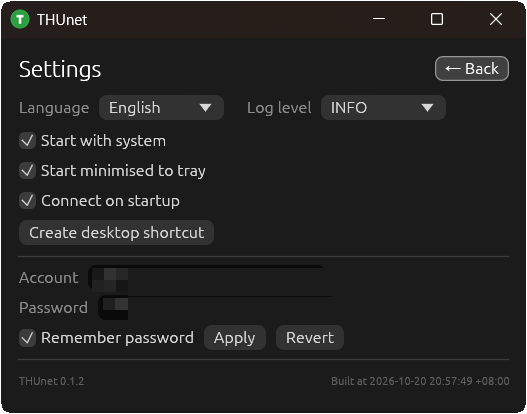
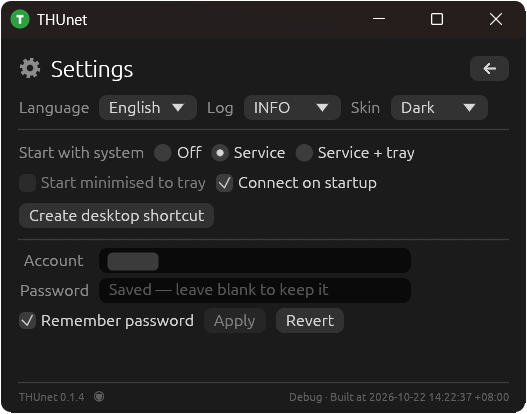
feat: let the window follow the system theme
Settings grows a Skin combo next to Language and Log (Auto / Light / Dark). The choice is stored in config.json as \	heme\ and pushed to the egui context through ThemePreference, so the window repaints in the new skin without a restart; \uto\ keeps following the OS.

The three combos share one row and one width, so the settings page still fits the fixed window in either language.

docs/images: retake all four screenshots and add the light-skin pair; README and README.zh-CN show the two skins side by side at 400 px each.

diff --git a/src/ui.rs b/src/ui.rs
@@ -105,6 +105,16 @@ fn state_color(state: State) -> egui::Color32 {
   egui::Color32::from_rgb(c[0], c[1], c[2])
 }
 
+/// `config.json`'s `theme` setting ("auto" | "light" | "dark"), as egui wants
+/// it. `auto` follows the system preference.
+fn theme_preference(setting: &str) -> egui::ThemePreference {
+  match setting {
+    "light" => egui::ThemePreference::Light,
+    "dark" => egui::ThemePreference::Dark,
+    _ => egui::ThemePreference::System,
+  }
+}
+
 /// How long the service has been up, in the coarsest useful unit.
 fn human_uptime(secs: u64) -> String {
   let days = secs / 86_400;
@@ -418,6 +428,8 @@ pub struct App {
   /// Lowest level rendered in the log pane; older lines are kept and simply
   /// hidden, so raising the threshold again brings them back.
   min_level: Level,
+  /// The theme setting last pushed to the context (`config.json` `theme`).
+  applied_theme: Option<String>,
   autostart: Option<Autostart>,
   autostart_mode: Mode,
   user_edit: String,
@@ -617,6 +629,7 @@ impl App {
       // `ensure_link` pass has to publish the language.
       lang_sent: false,
       min_level,
+      applied_theme: None,
       autostart,
       autostart_mode,
       tray,
@@ -1661,7 +1674,7 @@ impl App {
           // Denser spacing: the settings page has to fit the fixed window.
           ui.spacing_mut().item_spacing.y = 4.0;
 
-          // Language and log level lead the page: they are the two settings
+          // Language, log level and theme lead the page: they are the settings
           // people look for first.
           let mut choice = match self.cfg.lang.as_str() {
             "zh" => 1,
@@ -1670,11 +1683,20 @@ impl App {
           };
           let before_lang = choice;
           let before_level = self.min_level;
-          // Both combos share a row: the settings page has to fit the fixed
-          // window height.
+          let mut theme = match self.cfg.theme.as_str() {
+            "light" => 1,
+            "dark" => 2,
+            _ => 0,
+          };
+          let before_theme = theme;
+          // All three combos share one row, and all three are given the same
+          // width: the labels differ from language to language, but a common
+          // combo width is what keeps the row inside the fixed window width and
+          // the three controls the same size.
           ui.horizontal(|ui| {
             ui.label(t.language);
             egui::ComboBox::from_id_salt("lang")
+              .width(COMBO_WIDTH)
               .selected_text(match choice {
                 1 => t.lang_zh,
                 2 => t.lang_en,
@@ -1685,14 +1707,27 @@ impl App {
                 ui.selectable_value(&mut choice, 1, t.lang_zh);
                 ui.selectable_value(&mut choice, 2, t.lang_en);
               });
-            ui.add_space(10.0);
             ui.label(t.log_level);
             egui::ComboBox::from_id_salt("log-level")
+              .width(COMBO_WIDTH)
               .selected_text(self.min_level.tag())
               .show_ui(ui, |ui| {
                 for level in Level::CHOICES {
                   ui.selectable_value(&mut self.min_level, level, level.tag());
                 }
+              });
+            ui.label(t.theme);
+            egui::ComboBox::from_id_salt("theme")
+              .width(COMBO_WIDTH)
+              .selected_text(match theme {
+                1 => t.theme_light,
+                2 => t.theme_dark,
+                _ => t.theme_auto,
+              })
+              .show_ui(ui, |ui| {
+                ui.selectable_value(&mut theme, 0, t.theme_auto);
+                ui.selectable_value(&mut theme, 1, t.theme_light);
+                ui.selectable_value(&mut theme, 2, t.theme_dark);
               });
           });
           if choice != before_lang {
@@ -1706,6 +1741,16 @@ impl App {
           if self.min_level != before_level {
             self.cfg.log_level = self.min_level.setting().to_string();
             let _ = self.cfg.save();
+          }
+          if theme != before_theme {
+            self.cfg.theme = ["auto", "light", "dark"][theme].to_string();
+            match self.cfg.save() {
+              Ok(()) => {
+                let label = [t.theme_auto, t.theme_light, t.theme_dark][theme];
+                self.set_toast(format!("{}: {label}", t.theme), ToastKind::Info);
+              }
+              Err(e) => self.toast_err(e),
+            }
           }
 
           // A rule under the row that only changes how this window renders, so
@@ -1803,21 +1848,23 @@ impl App {
             match_hint,
           );
           ui.horizontal(|ui| {
-            ui.label(t.account);
+            let label_w = field_label_width(ui, t);
+            field_label(ui, t.account, label_w);
             ui.add_enabled(
               credentials_live,
-              egui::TextEdit::singleline(&mut self.user_edit).desired_width(190.0),
+              egui::TextEdit::singleline(&mut self.user_edit).desired_width(FIELD_WIDTH),
             );
             if stored.username {
               unsaved_marker(ui, t);
             }
           });
           ui.horizontal(|ui| {
-            ui.label(t.password);
+            let label_w = field_label_width(ui, t);
+            field_label(ui, t.password, label_w);
             let keep_hint = core_password && self.pass_edit.is_empty();
             let mut input = egui::TextEdit::singleline(&mut self.pass_edit)
               .password(true)
-              .desired_width(190.0);
+              .desired_width(FIELD_WIDTH);
             if keep_hint {
               // The core holds a password the window cannot show; an empty
               // field means "keep it" rather than "no password".
@@ -2176,6 +2223,54 @@ impl CredentialEdits {
   fn any(self) -> bool {
     self.username || self.password || self.remember
   }
+}
+
+/// Width of the three presentation combos (*Language*, *Log*, *Skin*).
+///
+/// One width for all three: they share a row, and the row has to fit the fixed
+/// window width in every language.
+const COMBO_WIDTH: f32 = 78.0;
+
+/// Width of the *Account* / *Password* input boxes.
+///
+/// Wide enough for the longest placeholder — "Saved — leave blank to keep it" —
+/// at the default font, and for the account a portal user actually types, while
+/// still leaving room on the same row for the *Unsaved* marker.
+const FIELD_WIDTH: f32 = 250.0;
+
+/// Width of the label column in front of those inputs.
+///
+/// Measured from the two labels in the current language instead of fixed:
+/// "Password" is the widest English label, while "账号" and "密码" are two
+/// characters each, and a column sized for English leaves a wide gap in
+/// Chinese. Both rows take the same number, which is what keeps the two inputs
+/// on the same x in every language.
+fn field_label_width(ui: &egui::Ui, t: &Texts) -> f32 {
+  let font = egui::TextStyle::Body.resolve(ui.style());
+  [t.account, t.password]
+    .iter()
+    .map(|text| {
+      ui.fonts_mut(|f| {
+        f.layout_no_wrap((*text).to_owned(), font.clone(), egui::Color32::WHITE)
+          .size()
+          .x
+      })
+    })
+    .fold(0.0_f32, f32::max)
+    .ceil()
+}
+
+/// That label, drawn flush left in the shared column.
+///
+/// A plain `ui.label` would make each row's column as wide as its own text, so
+/// the two inputs would start at different x; `add_sized` reserves the width
+/// but centres the text inside it.
+fn field_label(ui: &mut egui::Ui, text: &str, width: f32) {
+  let (rect, _) = ui.allocate_exact_size(
+    egui::vec2(width, ui.spacing().interact_size.y),
+    egui::Sense::hover(),
+  );
+  ui.put(rect, egui::Label::new(text));
 }
 
 /// Small "Unsaved" hint placed next to the input it belongs to.
@@ -3302,6 +3397,14 @@ impl App {
 
 impl eframe::App for App {
   fn logic(&mut self, ctx: &egui::Context, _frame: &mut eframe::Frame) {
+    // The stored theme is pushed here rather than in `App::new`, which runs
+    // before there is a context to apply it to. `applied_theme` remembers what
+    // was sent, so this is a no-op on the frames in between.
+    if self.applied_theme.as_deref() != Some(self.cfg.theme.as_str()) {
+      ctx.set_theme(theme_preference(&self.cfg.theme));
+      self.applied_theme = Some(self.cfg.theme.clone());
+    }
+
     // GTK delivers the appindicator menu callbacks through its own event loop,
     // but eframe owns the main loop here. Pump GTK every pass, otherwise menu
     // clicks are queued forever and never reach `handle_menu`.

diff --git a/src/i18n.rs b/src/i18n.rs
@@ -130,6 +130,10 @@ pub struct Texts {
   pub credentials_unavailable: &'static str,
   pub language: &'static str,
   pub log_level: &'static str,
+  pub theme: &'static str,
+  pub theme_auto: &'static str,
+  pub theme_light: &'static str,
+  pub theme_dark: &'static str,
   pub lang_auto: &'static str,
   pub lang_zh: &'static str,
   pub lang_en: &'static str,
@@ -263,7 +267,11 @@ static ZH: Texts = Texts {
   disconnect_unavailable: "当前网络由系统级 802.1X 认证，没有本程序建立的门户会话可断开",
   credentials_unavailable: "当前网络由系统级 802.1X 认证，门户账号在这里不会被使用",
   language: "语言",
-  log_level: "日志级别",
+  log_level: "日志",
+  theme: "皮肤",
+  theme_auto: "自动",
+  theme_light: "亮色",
+  theme_dark: "暗色",
   lang_auto: "跟随系统",
   lang_zh: "中文",
   lang_en: "English",
@@ -362,7 +370,11 @@ static EN: Texts = Texts {
   disconnect_unavailable: "This network authenticates in Windows; this app has no portal session here to end",
   credentials_unavailable: "This network authenticates in Windows; the portal account is not used here",
   language: "Language",
-  log_level: "Log level",
+  log_level: "Log",
+  theme: "Skin",
+  theme_auto: "Auto",
+  theme_light: "Light",
+  theme_dark: "Dark",
   lang_auto: "System",
   lang_zh: "中文",
   lang_en: "English",

diff --git a/src/config.rs b/src/config.rs
@@ -36,6 +36,8 @@ pub struct Config {
   /// Minimum level shown in the window log: "debug" | "info" | "warn" | "error".
   /// Defaults to `info`, so only diagnostics the user asked for show up.
   pub log_level: String,
+  /// Window theme: "auto" (follow the system) | "light" | "dark".
+  pub theme: String,
 }
 
 impl Default for Config {
@@ -55,6 +57,7 @@ impl Default for Config {
       reconnect_delay_secs: 5,
       lang: "auto".into(),
       log_level: "info".into(),
+      theme: "auto".into(),
     }
   }
 }

diff --git a/README.md b/README.md
@@ -46,7 +46,7 @@ One executable, no runtime dependencies, no console window, runs on Windows, Lin
    | other Linux | `thunet-<version>-linux-x64.tar.gz` | unpack and run `./thunet` (optionally `./thunet shortcut` for a desktop launcher) |
 
 2. **Run it.** Start `THUnet` from the Start Menu / application menu, or run `thunet` in a terminal. A small window opens; everything the app does is written to the log strip at the bottom of that window.
-3. **Open Settings.** Click the button in the top-right corner of the window.
+3. **Open Settings.** Click the gear in the top-right corner of the window.
 4. **Enter your credentials.** Type your TUNET account (for example `1234567890`) and your password, tick **Remember password**, then click **Apply**. The password is sealed with a random per-install key before it touches the disk, and never ends up in the settings file. The core owns that key and the sealed blob; the window never reads them back.
 5. **Connect.** Go back to the Status page and click **Connect** (or just wait a few seconds if *Auto connect* is already enabled). The dot in the header turns green and your IPv4 address appears.
 
@@ -60,11 +60,13 @@ That is all. From now on the app reconnects by itself whenever the network comes
 
 ## 2. The window at a glance
 
-The window has exactly two pages, switched with the button in the top-right corner. It opens in the middle of the monitor, and a fixed size means each launch starts from the same place.
+The window has exactly two pages, switched with the gear in the top-right corner; the arrow in the same place on the settings page leads back. It opens in the middle of the monitor, and a fixed size means each launch starts from the same place.
 
-![The THUnet status page](docs/images/en-status.png)
+| Light | Dark |
+| --- | --- |
+| <img src="docs/images/en-status-light.png" width="400" alt="The THUnet status page in the light skin"> | <img src="docs/images/en-status.png" width="400" alt="The THUnet status page"> |
 
-*Status page, with the account name, addresses and user name redacted.*
+*The status page, in the light and the dark skin.*
 
 ### Status page
 
@@ -93,18 +95,21 @@ Right-click on selected log text copies the selection straight to the clipboard.
 
 ### Settings page
 
-![The THUnet settings page](docs/images/en-settings.png)
+| Light | Dark |
+| --- | --- |
+| <img src="docs/images/en-settings-light.png" width="400" alt="The THUnet settings page in the light skin"> | <img src="docs/images/en-settings.png" width="400" alt="The THUnet settings page"> |
 
-*Settings page, with the account and password fields redacted.*
+*The settings page, in the light and the dark skin.*
 
 | Setting | Effect |
 | --- | --- |
 | Start with the system | Three modes on one row: Off / Service / Service + tray (see [7](#7-install-uninstall-shortcut)). "Tray only" is not offered — the tray never starts a core by itself, so the icon would only ever report "service not running". On both platforms this row needs administrator rights: registering or changing the service, and starting or stopping it. The tray part alone is per user and needs no elevation once the service is already enabled |
-| Start minimised to tray | Independent of the line above: autostart can stay hidden while a manual launch opens the window, or the other way round. Greyed out in *Service*, where no tray starts |
+| Start minimised to tray | On the same row as *Auto connect*, and independent of the autostart row above: autostart can stay hidden while a manual launch opens the window, or the other way round. Greyed out in *Service*, where no tray starts |
 | Auto connect | Log in as soon as a usable network appears |
 | Create desktop shortcut | Puts a launcher for the running executable on your desktop (the same action as `thunet shortcut`) |
 | Account / Password / Remember password / Apply / Revert | This is the only row that does not save as you type: the button turns into the accent colour and an *Unsaved* marker appears while it differs from what is stored. Applying seals the password into `credential.bin` (never into the JSON file) and passes it to the running session immediately; if the service is down, Apply asks to start it first (administrator) and sends the credential once it answers. The window keeps no copy afterwards: the field goes blank and its placeholder says the saved value is kept, and re-typing the stored password is compared against the core (`CheckCredentials`) so it does not look unsaved. *Revert* drops the edits and restores the stored account, password and checkbox (it is greyed out while *Remember password* is off, since there is nothing stored to go back to) |
 | Language | Follow system (default), 中文, English |
+| Skin | Follow system (default), Light, Dark. Applied to the window immediately, and remembered in `config.json`, so the next launch starts in the same skin |
 | Log level | `DEBUG` / `INFO` / `WARN` / `ERROR`: the lowest level shown in the log page (`INFO` by default, stored in `config.json`) |
 | Version | Version on the left, build time on the right (local clock to the second, with its UTC offset); the prefix says whether the binary is a `Release` or `Debug` build, so a local test package is never mistaken for a release one; the GitHub icon next to the version opens this repository |
 

diff --git a/README.zh-CN.md b/README.zh-CN.md
@@ -46,17 +46,19 @@
    | 其他 Linux | `thunet-<version>-linux-x64.tar.gz` | 解压后运行 `./thunet`（可选 `./thunet shortcut` 生成桌面图标） |
 
 2. **运行。** 从开始菜单 / 应用菜单打开 `THUnet`，或在终端里执行 `thunet`。会弹出一个小窗口，程序做的每件事都会写到窗口底部的日志条里。
-3. **打开设置。** 点窗口右上角的按钮。
+3. **打开设置。** 点窗口右上角的齿轮图标。
 4. **填写账号密码。** 输入 TUNET 账号（例如 `1234567890`）和密码，勾选 **记住密码**，再点 **应用**。密码会先用随机生成的每安装密钥加密再落盘，绝不会写进设置文件；密钥和密文都由 core 持有，窗口从不读回。
 5. **连接。** 回到状态页点 **连接**（如果"连接时自动连接"已经打开，等几秒即可）。标题处的圆点变成绿色就表示在线。
 
 ## 2. 界面一览
 
-窗口只有两页，用右上角的按钮切换。窗口出现在显示器正中，尺寸固定，所以每次启动都从同一个位置开始。
+窗口只有两页，用右上角的齿轮图标切换；设置页同一位置是返回箭头。窗口出现在显示器正中，尺寸固定，所以每次启动都从同一个位置开始。
 
-![THUnet 状态页](docs/images/zh-status.png)
+| 亮色 | 深色 |
+| --- | --- |
+| <img src="docs/images/zh-status-light.png" width="400" alt="THUnet 状态页（亮色皮肤）"> | <img src="docs/images/zh-status.png" width="400" alt="THUnet 状态页（深色皮肤）"> |
 
-*状态页（账号、地址和用户名已打码）。*
+*状态页，亮色与深色皮肤。*
 
 ### 状态页
 
@@ -85,18 +87,21 @@
 
 ### 设置页
 
-![THUnet 设置页](docs/images/zh-settings.png)
+| 亮色 | 深色 |
+| --- | --- |
+| <img src="docs/images/zh-settings-light.png" width="400" alt="THUnet 设置页（亮色皮肤）"> | <img src="docs/images/zh-settings.png" width="400" alt="THUnet 设置页（深色皮肤）"> |
 
-*设置页（账号和密码已打码）。*
+*设置页，亮色与深色皮肤。*
 
 | 设置项 | 作用 |
 | --- | --- |
 | 开机自启 | 三档并列一行：关闭 / 服务 / 服务 + 托盘（见 [7](#7-安装卸载快捷方式)）。不提供"只启动托盘"——托盘自己不会拉起 core，那样的图标只会一直显示"未运行"。两个平台上这一行都需要管理员权限：注册或修改服务、启停服务都是；服务已启用时，只切换托盘部分不需要提权 |
-| 启动时最小化到托盘 | 与上一项相互独立：可以自启但隐藏，也可以手动启动时打开窗口，反之亦然。在"服务"档位下置灰（根本没有托盘要最小化） |
+| 启动时最小化到托盘 | 和 *启动时自动连接* 在同一行，并且与上面的开机自启相互独立：可以自启但隐藏，也可以手动启动时打开窗口，反之亦然。在"服务"档位下置灰（根本没有托盘要最小化） |
 | 启动时自动连接 | 一检测到可用网络就登录 |
 | 创建桌面快捷方式 | 为当前运行的可执行文件在桌面生成一个启动器（等同于 `thunet shortcut`） |
 | 账号 / 密码 / 记住密码 / 应用 / 还原 | 这是唯一一行不会边输入边保存的设置：内容与已保存值不同时会变成强调色并出现 *未保存* 标记。应用会把密码加密写入 `credential.bin`（不会写进 JSON），并立刻交给正在运行的会话；如果服务未运行，应用会先请求启动服务（需要管理员），等服务应答后再写入。窗口之后不再保留副本：密码框会清空，占位文字说明已保存的值会继续生效；重新输入已保存的密码会由 core 比对（`CheckCredentials`），因此不会显示成未保存。还原会丢弃修改，恢复已保存的账号、密码和勾选状态（关闭*记住密码*时它是灰的，因为没有可恢复的内容） |
 | 语言 | 跟随系统（默认）、中文、English |
+| 皮肤 | 跟随系统（默认）、亮色、暗色。立即应用到窗口，并记在 `config.json` 里，下次启动沿用 |
 | 日志级别 | `DEBUG` / `INFO` / `WARN` / `ERROR`：日志页显示的最低级别（默认 `INFO`，存在 `config.json` 里） |
 | 版本 | 左边是版本号，右边是构建时间（本地时钟，精确到秒，并带 UTC 偏移）；前缀标明这是 `Release` 还是 `Debug` 构建，本地测试包不会和发布包混淆；版本号右侧的 GitHub 图标会打开本仓库 |
 
